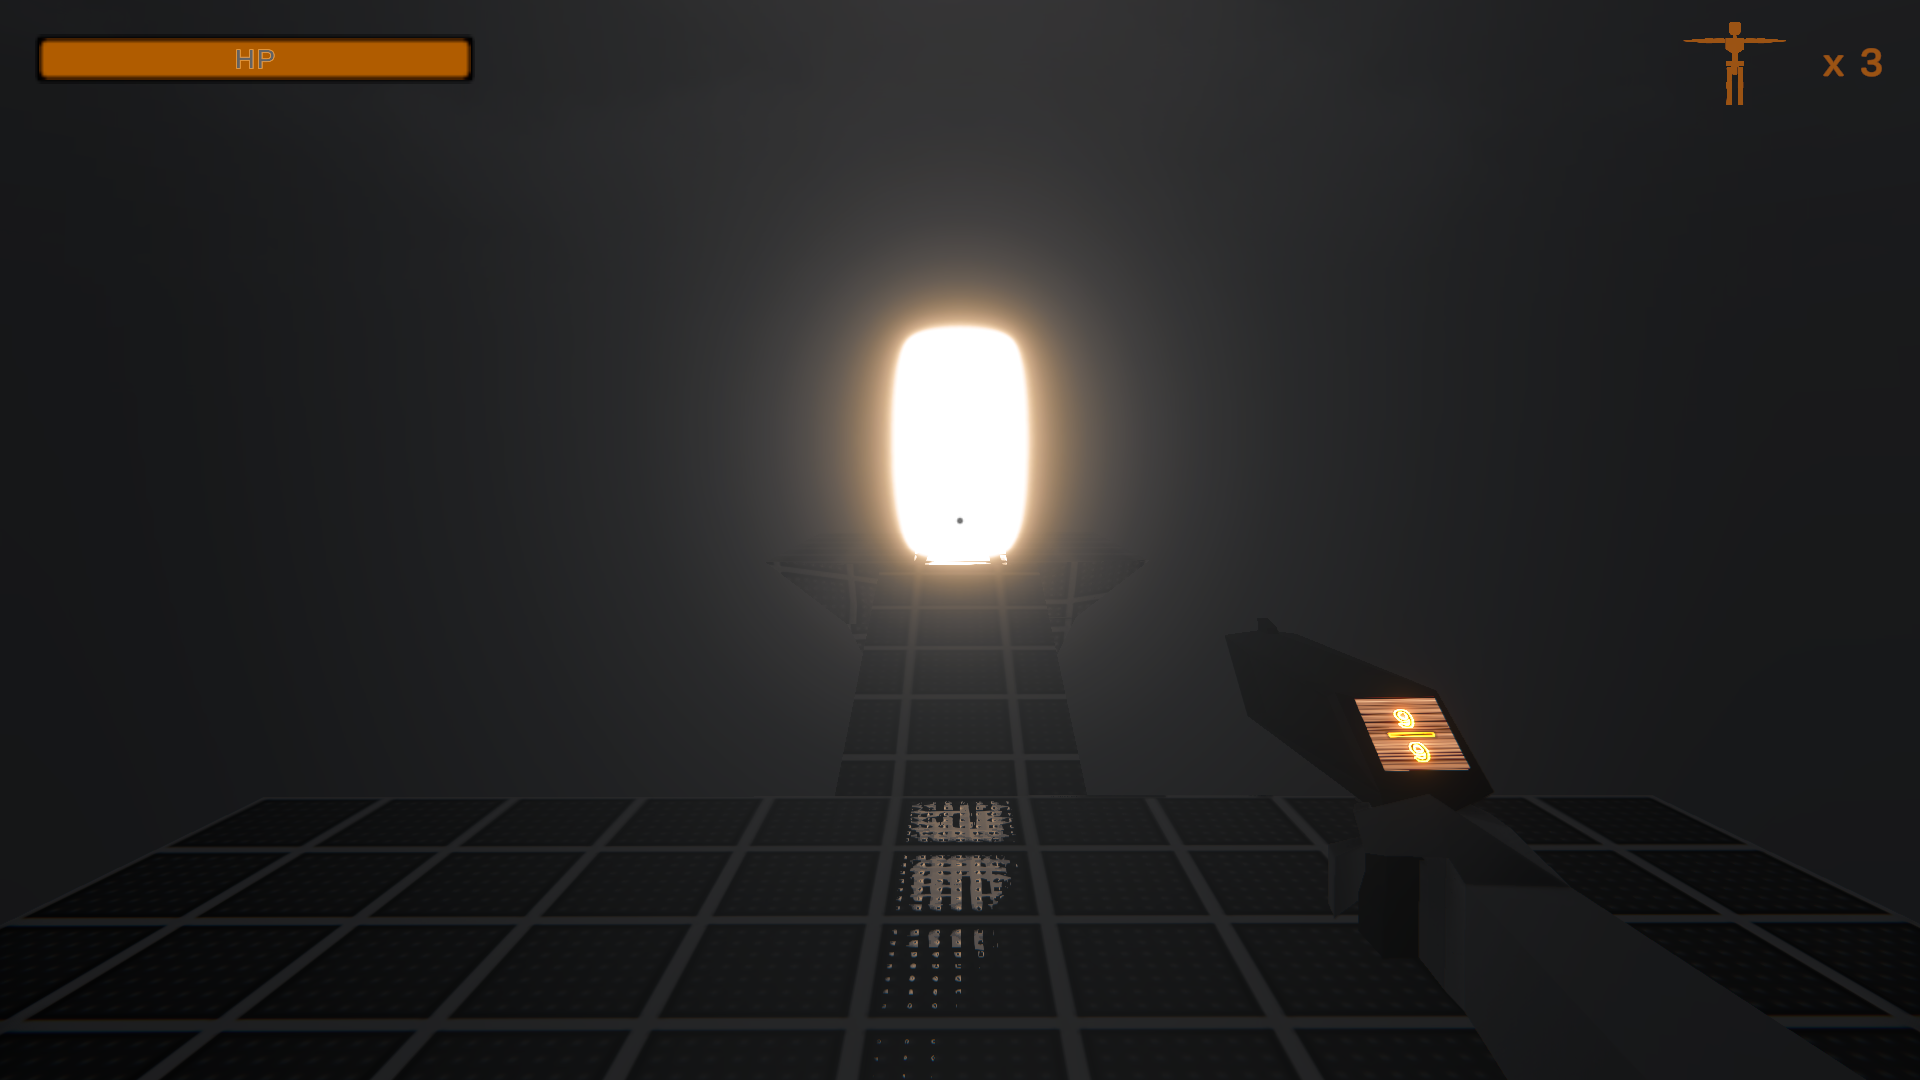
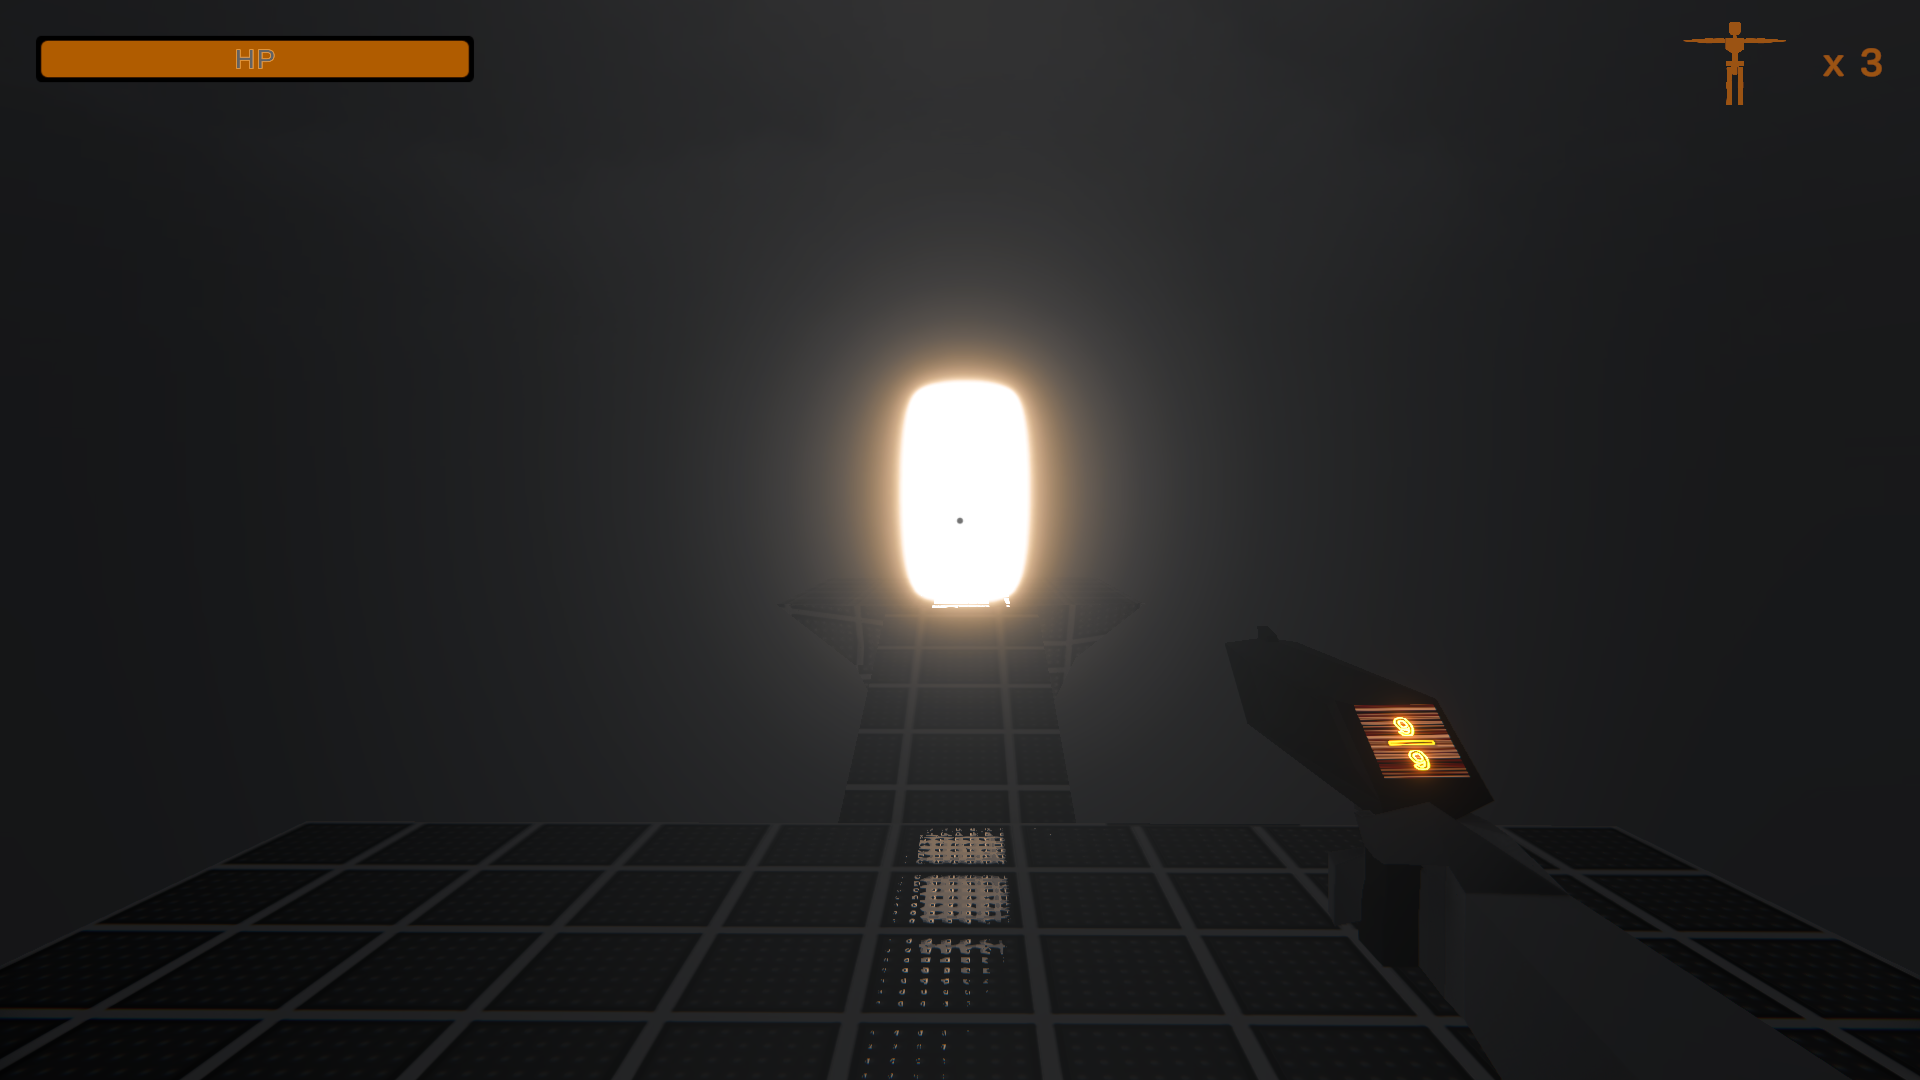
Added higher quality updated screenshots

diff --git a/README.md b/README.md
@@ -13,7 +13,7 @@ Here are my games:
 > There's no better way to snail around
 * PLAY IT HERE: [Play Sticky Snail](https://asnailman777.github.io/Sticky-Snail/)
 
-![Snail Runnin](./Screenshot 2025-04-19 140106.png)
+![Snail Running](./Screenshot(8).png)
 
 # The Secret Game
 > *TBA*
